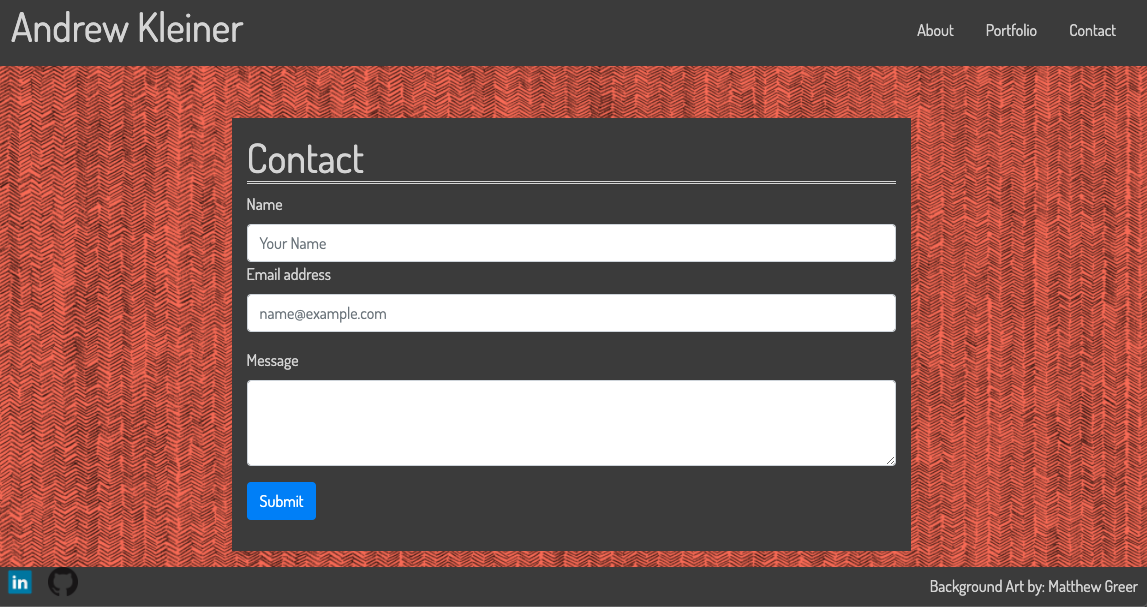
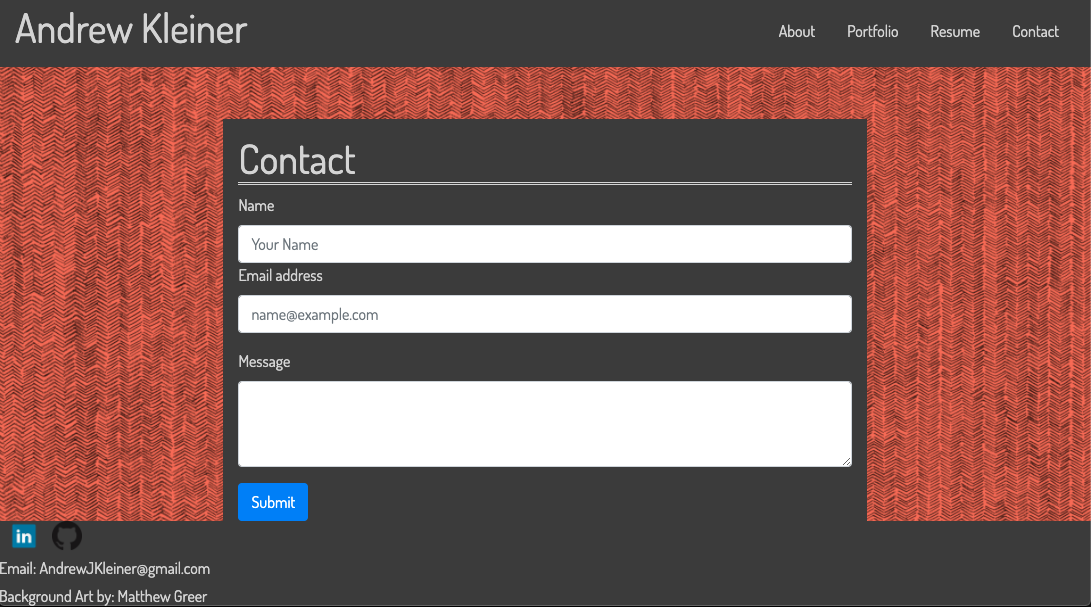
readme updated to changes

diff --git a/README.md b/README.md
@@ -10,15 +10,13 @@ As seen in this project, bootstraps open source code material is one of many way
 
 ## Contributors
 Web Design-Andrew Kleiner\
-Photographer- J.C. Dunst\
-Photographer- Cory Stieg\
-Photographer- Andrew Kleiner\
 Background Art- Matthew Greer
 
 ## Links to Site
 About Me: [About Me Page](https://akleiner26.github.io/Responsiveness-Portfolio/)\
 Portfolio: [Portfolio Page](https://akleiner26.github.io/Responsiveness-Portfolio/portfolio.html)\
-Contact: [Contact Page](https://akleiner26.github.io/Responsiveness-Portfolio/contact.html)
+Contact: [Contact Page](https://akleiner26.github.io/Responsiveness-Portfolio/contact.html)\
+Resume: [Resume PDF](https://akleiner26.github.io/Responsiveness-Portfolio/assets/images/Andrew%20Kleiner%20Resume%202020%20Code.pdf)
 
 ## Screenshots of Site
 ### About Me on a Large Device
@@ -47,5 +45,8 @@ Contact: [Contact Page](https://akleiner26.github.io/Responsiveness-Portfolio/co
 
 ### Contact on a Small Device
 <img src="/assets/images/Screenshots/contactSmall.png" alt="Small Device Screenshot">
+
+### Resume
+<img src="/assets/images/Screenshots/resume.png" alt="Resume">
 
 
